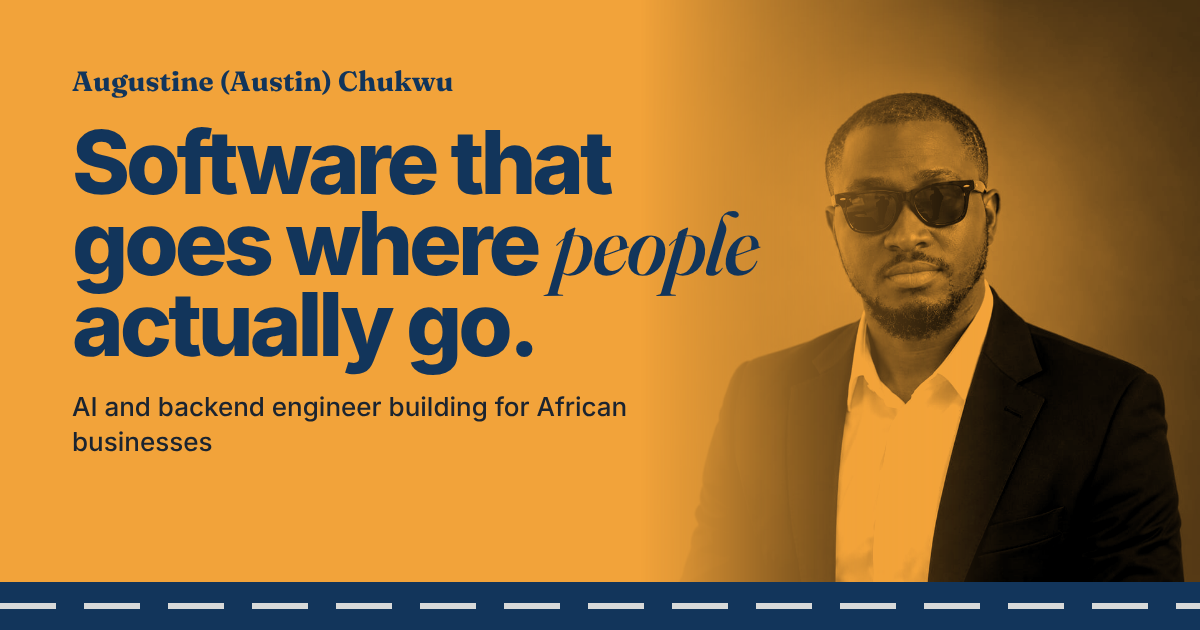
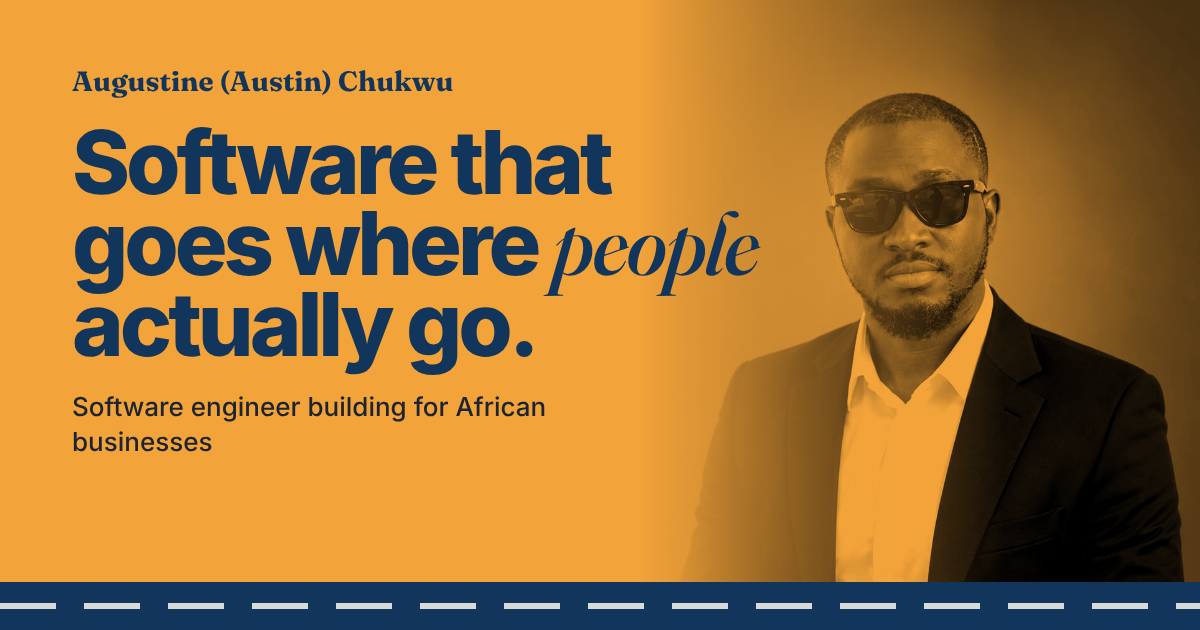
Use 'Software engineer' as the site title and description
Claude-Session: https://claude.ai/code/session_01ALmFjAaLGp7yfCggUCXrEB

Changed region(s): [[0.0617, 0.6333, 0.5242, 0.6635]]

diff --git a/scripts/og.html b/scripts/og.html
@@ -28,7 +28,7 @@
   <div class="text">
     <div class="wordmark">Augustine (Austin) Chukwu</div>
     <h1>Software that goes where <em>people</em> actually go.</h1>
-    <p>AI and backend engineer building for African businesses</p>
+    <p>Software engineer building for African businesses</p>
   </div>
   <div class="road"></div>
 </div>
